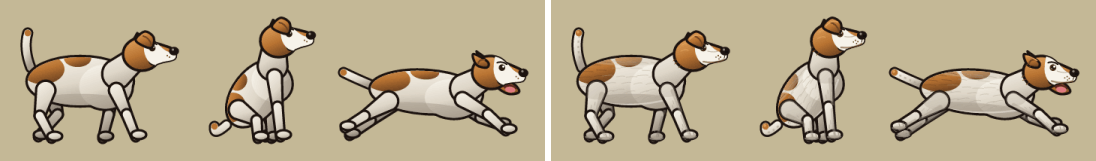
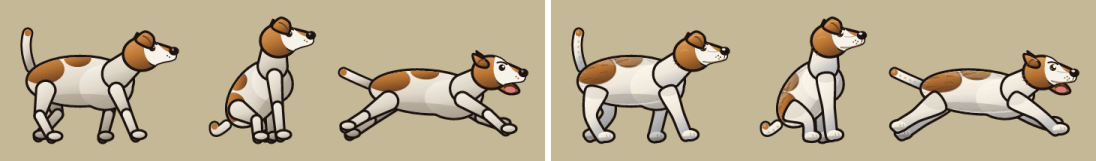
feat(art): Brakkie — smooth one-piece tapered legs, warm/cool coat shading, hair at the edges and in the tan patches, clearer eye and wet-nose highlights (D-077 review)

diff --git a/tools/art/brakkie.ts b/tools/art/brakkie.ts
@@ -86,8 +86,9 @@ interface Paints {
 
 function paints(): Paints {
   return {
-    white: coat(C.white, C.whiteMid, C.whiteShade),
-    whiteFar: coat(C.whiteMid, C.whiteShade, '#7E7466'),
+    // v1.15 review: warm light on top, a cool grey underside.
+    white: coat('#FFF9EE', '#EFE7DA', '#A9AEB8'),
+    whiteFar: coat('#DCD6CC', '#B9B8B8', '#80838E'),
     tan: coat(C.tanLit, C.tan, C.tanShade),
     fowl: coat('#6A6E7E', C.fowl, C.fowlShade),
   };
@@ -139,72 +140,65 @@ interface Leg {
   readonly paw: P;
 }
 
-/** v1.15 (D-077): shade down a limb's back edge (light from the upper left), a lit edge on its
- *  front, the coat's hair in a few strokes. */
-function limbShade(a: P, b: P, w: number, dark: boolean): string {
-  const dx = b[0] - a[0];
-  const dy = b[1] - a[1];
-  const l = Math.hypot(dx, dy) || 1;
-  // The side facing down-right (away from the light).
-  let nx = -dy / l;
-  let ny = dx / l;
-  if (nx + ny < 0) {
-    nx = -nx;
-    ny = -ny;
+/** v1.15 (D-077 review): one smooth tapered leg, hip → knee → paw, as a single outline (no joint
+ *  lines): a Catmull-Rom shape through both sides of the bone. */
+function legD(l: Leg, upper: number): string {
+  const pts = [l.hip, l.knee, l.paw];
+  const widths = [upper, 13.5, 11];
+  const left: P[] = [];
+  const right: P[] = [];
+  for (let i = 0; i < 3; i++) {
+    const p = pts[i] ?? [0, 0];
+    const prev = pts[Math.max(0, i - 1)] ?? p;
+    const next = pts[Math.min(2, i + 1)] ?? p;
+    const dx = next[0] - prev[0];
+    const dy = next[1] - prev[1];
+    const n = Math.hypot(dx, dy) || 1;
+    const w = (widths[i] ?? 12) / 2;
+    left.push([p[0] - (dy / n) * w, p[1] + (dx / n) * w]);
+    right.push([p[0] + (dy / n) * w, p[1] - (dx / n) * w]);
   }
-  const o = w * 0.3;
-  const at = (t: number, k: number): string =>
-    `${r2(a[0] + dx * t + nx * o * k)} ${r2(a[1] + dy * t + ny * o * k)}`;
-  return (
-    line(`M${at(0.1, 1)}L${at(0.9, 1)}`, dark ? '#7E7466' : C.whiteShade, w * 0.26).replace(
-      '/>',
-      ' opacity="0.45"/>',
-    ) +
-    line(
-      `M${at(0.45, 0.2)}l${r2(dx * 0.1)} ${r2(dy * 0.1 + 1)}M${at(0.6, -0.3)}l${r2(dx * 0.1)} ${r2(dy * 0.1 + 1)}`,
-      C.whiteShade,
-      1,
-    ).replace('/>', ' opacity="0.6"/>')
-  );
+  return smoothD([...left, ...right.reverse()], true, 0.8);
 }
 
 function leg(l: Leg, fill: string, front: boolean, far = false): string {
   const upper = front ? 20 : 26;
   const id = uid('lc');
-  const thigh = limbD(l.hip, l.knee, upper, 14);
-  const shin = limbD(l.knee, l.paw, 14, 12);
+  const limb = legD(l, upper);
   const paw = ellipseD(l.paw[0] + 4, l.paw[1] - 3, 10, 6);
+  const ink = (d: string): string =>
+    el('path', {
+      d,
+      fill: C.ink,
+      stroke: C.ink,
+      'stroke-width': INK * 2,
+      'stroke-linejoin': 'round',
+    });
   return (
-    inkPath(thigh, fill) +
-    inkPath(shin, fill) +
-    inkPath(paw, fill) +
-    el(
-      'clipPath',
-      { id },
-      el('path', { d: thigh }),
-      el('path', { d: shin }),
-      el('path', { d: paw }),
-    ) +
+    // One silhouette: both shapes inked together, then filled together (no line at the ankle).
+    ink(limb) +
+    ink(paw) +
+    el('path', { d: limb, fill }) +
+    el('path', { d: paw, fill }) +
+    el('clipPath', { id }, el('path', { d: limb }), el('path', { d: paw })) +
     g(
       { 'clip-path': `url(#${id})` },
-      // The body's shadow over the top of the leg.
+      // The body's soft shadow over the top of the leg; the far legs a gentle grey.
       el('path', {
-        d: ellipseD(l.hip[0], l.hip[1] - 2, upper * 0.9, upper * 0.55),
-        fill: C.whiteShade,
-        opacity: far ? 0.2 : 0.3,
+        d: ellipseD(l.hip[0], l.hip[1] - 4, upper * 0.9, upper * 0.6),
+        fill: far ? '#8C8E96' : C.whiteShade,
+        opacity: far ? 0.35 : 0.22,
       }),
-      limbShade(l.hip, l.knee, upper, far),
-      limbShade(l.knee, l.paw, 14, far),
-      // Toes on the paw and its shade underneath.
+      // Neat toes and the pad's shade under the paw.
       line(
-        `M${r2(l.paw[0] + 4)} ${r2(l.paw[1] - 6)}l1 4M${r2(l.paw[0] + 9)} ${r2(l.paw[1] - 6)}l1 4`,
-        C.whiteShade,
-        1.2,
+        `M${r2(l.paw[0] + 5)} ${r2(l.paw[1] - 5)}l0.6 3M${r2(l.paw[0] + 9.5)} ${r2(l.paw[1] - 5)}l0.6 3`,
+        far ? '#7E7466' : C.whiteShade,
+        1,
       ),
       el('path', {
-        d: ellipseD(l.paw[0] + 4, l.paw[1], 10, 2.4),
-        fill: C.whiteShade,
-        opacity: 0.7,
+        d: ellipseD(l.paw[0] + 4, l.paw[1] + 0.5, 10, 2),
+        fill: far ? '#7E7466' : C.whiteShade,
+        opacity: 0.6,
       }),
     )
   );
@@ -267,10 +261,16 @@ function torso(p: Paints, b: Pose['body']): string {
       el('path', {
         d: ellipseD(-b.rx * 0.72, -b.ry * 0.5, b.rx * 0.42, b.ry * 0.62),
         fill: p.tan.url,
+        stroke: C.tanShade,
+        'stroke-width': 2.4,
+        'stroke-opacity': 0.7,
       }),
       el('path', {
         d: ellipseD(-b.rx * 0.05, -b.ry * 0.95, b.rx * 0.26, b.ry * 0.36),
         fill: p.tan.url,
+        stroke: C.tanShade,
+        'stroke-width': 2.4,
+        'stroke-opacity': 0.7,
       }),
       // v1.15 (D-077): the coat's darker cream along the spine.
       el('path', {
@@ -303,24 +303,37 @@ function fur(b: Pose['body']): string {
   const rnd = prng(4242);
   const pale: string[] = [];
   const dark: string[] = [];
-  for (let row = 0; row < 6; row++) {
-    const v = -0.82 + row * 0.3;
-    for (let k = 0; k < 8; k++) {
-      const u = -0.8 + k * 0.22 + (rnd() - 0.5) * 0.1 + (row % 2) * 0.11;
-      const x = u * b.rx;
-      const y = v * b.ry * Math.sqrt(Math.max(0, 1 - u * u)) + (rnd() - 0.5) * 3;
-      const len = 10 + rnd() * 6;
-      // Hair lies back toward the tail and curves down the flank.
-      const droop = v * 4 + 1.5;
-      const seg = `M${r2(x)} ${r2(y)}c${r2(-len * 0.3)} ${r2(-1)} ${r2(-len * 0.7)} ${r2(droop * 0.4)} ${r2(-len)} ${r2(droop)}`;
-      const inSaddle =
-        ((x + b.rx * 0.72) / (b.rx * 0.42)) ** 2 + ((y + b.ry * 0.5) / (b.ry * 0.62)) ** 2 < 1;
-      (inSaddle ? dark : pale).push(seg);
-    }
+  // v1.15 review: on the white coat only a fringe of short hair along the edges (the back line
+  // and the belly line), lying back toward the tail.
+  for (let k = 0; k < 28; k++) {
+    const t = (k / 28) * Math.PI * 2 + (rnd() - 0.5) * 0.08;
+    const x = Math.cos(t) * b.rx * 0.95;
+    const y = Math.sin(t) * b.ry * 0.9;
+    const len = 6 + rnd() * 4;
+    const droop = Math.sin(t) * 3;
+    pale.push(
+      `M${r2(x)} ${r2(y)}c${r2(-len * 0.3)} ${r2(-0.5)} ${r2(-len * 0.7)} ${r2(droop * 0.4)} ${r2(-len)} ${r2(droop)}`,
+    );
   }
+  // Dense hair in the tan saddle and the back patch.
+  const patches: readonly [number, number, number, number, number][] = [
+    [-b.rx * 0.72, -b.ry * 0.5, b.rx * 0.42, b.ry * 0.62, 16],
+    [-b.rx * 0.05, -b.ry * 0.95, b.rx * 0.26, b.ry * 0.36, 8],
+  ];
+  for (const [cx, cy, ax, ay, n] of patches)
+    for (let k = 0; k < n; k++) {
+      const a = rnd() * Math.PI * 2;
+      const rr = Math.sqrt(rnd()) * 0.85;
+      const x = cx + Math.cos(a) * ax * rr;
+      const y = cy + Math.sin(a) * ay * rr;
+      const len = 6 + rnd() * 4;
+      dark.push(
+        `M${r2(x)} ${r2(y)}c${r2(-len * 0.3)} ${r2(-0.5)} ${r2(-len * 0.7)} ${r2(0.6)} ${r2(-len)} ${r2(1.6)}`,
+      );
+    }
   return (
-    line(pale.join(''), C.whiteShade, 1).replace('/>', ' opacity="0.4"/>') +
-    line(dark.join(''), C.tanShade, 1).replace('/>', ' opacity="0.5"/>')
+    line(pale.join(''), C.whiteShade, 1.1).replace('/>', ' opacity="0.55"/>') +
+    line(dark.join(''), C.tanShade, 1.1).replace('/>', ' opacity="0.65"/>')
   );
 }
 
@@ -417,6 +430,7 @@ function headArt(p: Paints, h: Pose['head'], mouth: Pose['mouth'], ears: Pose['e
     line('M20 -4Q28 -2 34 -4', C.whiteShade, 1.2).replace('/>', ' opacity="0.7"/>'),
     el('path', { d: ellipseD(43, -4, 6, 5), fill: C.nose, stroke: C.ink, 'stroke-width': 1.5 }),
     el('circle', { cx: 41.5, cy: -6, r: 1.6, fill: '#8A8A90' }),
+    el('path', { d: ellipseD(41.2, -6.4, 2.6, 1.4), fill: '#FFFFFF', opacity: 0.85 }),
     el('path', { d: 'M44 -2.6q1.6 -1 3 0', fill: 'none', stroke: '#000000', 'stroke-width': 1 }),
     line('M43 1L42 5', C.ink, 1),
     // Eye: wide when he yelps.
@@ -431,7 +445,7 @@ function headArt(p: Paints, h: Pose['head'], mouth: Pose['mouth'], ears: Pose['e
       stroke: '#5A3418',
       'stroke-width': 1,
     }),
-    el('circle', { cx: 15.6, cy: -9.6, r: 1.5, fill: '#FFFFFF' }),
+    el('circle', { cx: 15.8, cy: -9.8, r: 2.1, fill: '#FFFFFF' }),
     el('circle', { cx: 12.4, cy: -6.4, r: 0.7, fill: '#FFFFFF', opacity: 0.8 }),
     // Brow.
     line(`M7 ${mouth === 'yelp' ? -16 : -14}Q14 -17 20 -13`, C.ink, 2),
